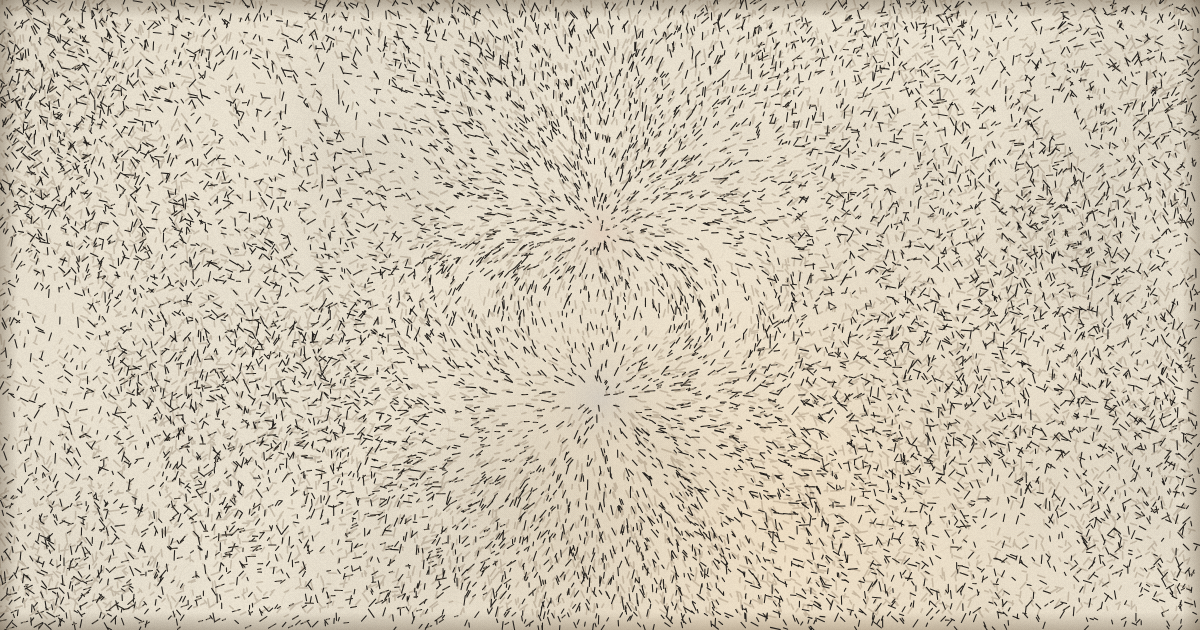
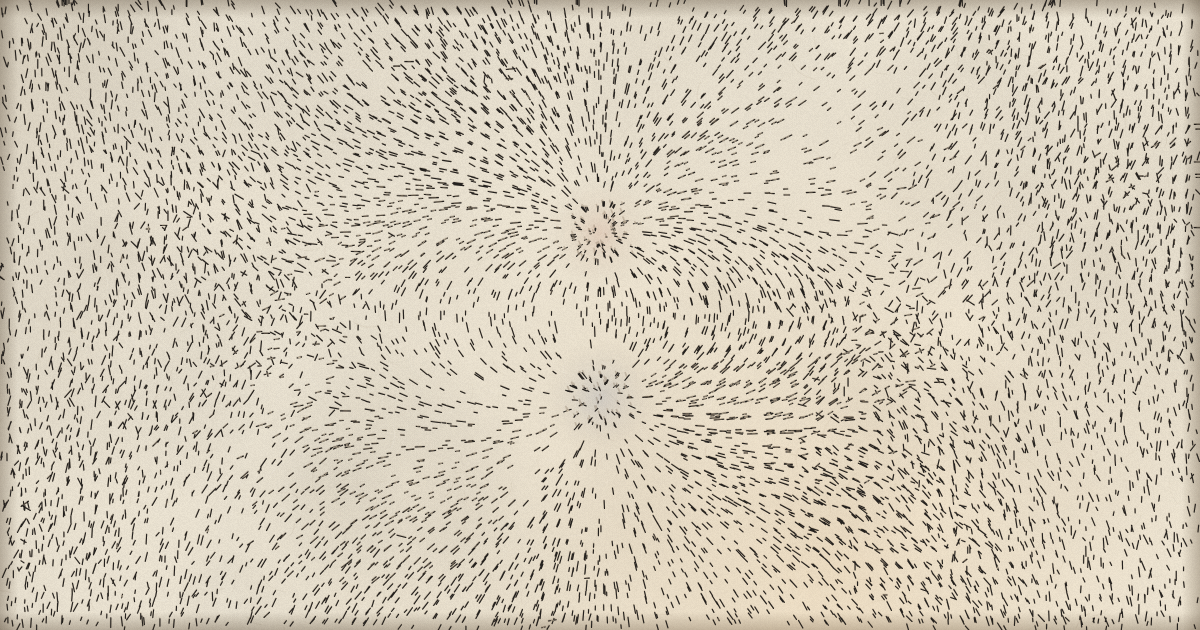
Deterministic demo mode for a settled link preview

diff --git a/index.html b/index.html
@@ -705,15 +705,21 @@ function frame() {
 }
 
 resize();
-if (DEMO) {
+function simFor(sec) {
+  const d = 1 / 60;
+  for (let k = 0; k < sec * 60; k++) { const t = now(); if (sens.ori) { sens.t = t; sens.mt = t; } updateOrientation(d, t); updateMagnets(d, t); agit *= Math.exp(-d / 0.3); step(d); }
+  dirty = true;
+}
+if (DEMO && N) {
   introEl.remove(); started = true; startT = now(); desktop = true; hintList = [];
   addMagnet(W * 0.5, H * 0.37, true); addMagnet(W * 0.5, H * 0.63, true);
-  let n = 0; const iv = setInterval(() => { globalKnock(0.6); if (++n >= 8) clearInterval(iv); }, 380);
+  for (let k = 0; k < 7; k++) { simFor(0.4); globalKnock(0.55); }
+  simFor(2);
 }
 window.lodestone = {
   knock: k => globalKnock(k || 1), tap: (x, y) => tapKnock(x, y, 1), pin: (x, y) => addMagnet(x, y, true),
   clear: () => { for (const m of magnets) { m.pinned = false; m.alive = false; } },
-  sim: sec => { const d = 1 / 60; for (let k = 0; k < sec * 60; k++) { const t = now(); sens.t = t; sens.mt = t; updateOrientation(d, t); updateMagnets(d, t); agit *= Math.exp(-d / 0.3); step(d); } dirty = true; },
+  sim: sec => simFor(sec),
   level: () => level(), sprinkle: () => resprinkle(),
   get state() { return { N, W, H, started, desktop, magnets: magnets.map(m => [Math.round(m.q), m.alive, m.pinned]), nan: Array.prototype.some.call(px, v => v !== v), sensors: { ori: sens.ori, abs: sens.abs, motion: sens.motion, gyro: sens.gyro } }; }
 };
